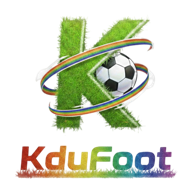
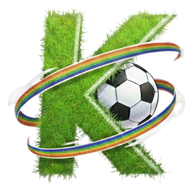
feat: Add initial client-side assets, SEO configuration, sitemap, and OpenAPI specification.

diff --git a/apps/client/index.html b/apps/client/index.html
@@ -10,24 +10,24 @@
   <meta name="msapplication-TileColor" content="#ffffff">
   <meta name="theme-color" content="#ffffff">
   <meta name="viewport" content="width=device-width, initial-scale=1.0" />
-  <title>KduFoot — Matchs Amicaux & Tournois de Football</title>
+  <title>KduFoot — Organisez et Trouvez des Matchs Amicaux & Tournois</title>
 
   <meta name="description"
-    content="KduFoot : Trouvez des matchs amicaux et des tournois autour de chez vous pour organiser vos rencontres de football facilement." />
+    content="Kdufoot : Trouvez ou publiez vos annonces de matchs amicaux et tournois de football autour de chez vous. Organisez vos rencontres et rejoignez la communauté en quelques clics !" />
   <link rel="canonical" href="https://kdufoot.com/" />
 
   <meta property="og:type" content="website" />
   <meta property="og:url" content="https://kdufoot.com/" />
-  <meta property="og:title" content="KduFoot — Matchs Amicaux & Tournois de Football" />
+  <meta property="og:title" content="KduFoot — Organisez et Trouvez des Matchs Amicaux & Tournois" />
   <meta property="og:description"
-    content="Trouvez des matchs amicaux et des tournois de football proches de chez vous avec KduFoot." />
+    content="Kdufoot : Trouvez ou publiez vos annonces de matchs amicaux et tournois de football autour de chez vous. Organisez vos rencontres et rejoignez la communauté en quelques clics !" />
   <meta property="og:image" content="https://kdufoot.com/logo.png" />
 
   <meta property="twitter:card" content="summary_large_image" />
   <meta property="twitter:url" content="https://kdufoot.com/" />
-  <meta property="twitter:title" content="KduFoot — Matchs Amicaux & Tournois de Football" />
+  <meta property="twitter:title" content="KduFoot — Organisez et Trouvez des Matchs Amicaux & Tournois" />
   <meta property="twitter:description"
-    content="Trouvez des matchs amicaux et des tournois de football proches de chez vous avec KduFoot." />
+    content="Kdufoot : Trouvez ou publiez vos annonces de matchs amicaux et tournois de football autour de chez vous. Organisez vos rencontres et rejoignez la communauté en quelques clics !" />
   <meta property="twitter:image" content="https://kdufoot.com/logo.png" />
 
   <script type="application/ld+json">

diff --git a/crop.py b/crop.py
@@ -1,0 +1,81 @@
+import sys
+import os
+from PIL import Image
+
+def process_logo(base_path):
+    src_logo = os.path.join(base_path, 'logo.png')
+    if not os.path.exists(src_logo):
+        print(f"Error: {src_logo} not found")
+        return
+    
+    print("Opening logo...")
+    img = Image.open(src_logo).convert('RGBA')
+    
+    # We found earlier:
+    # X ranges of content: [(176, 848)]  -> Width: 673
+    # Y ranges of top part: [(68, 727)] -> Height: 660
+    # Let's crop a secure square around center (512, 398) with radius 360
+    # Box: (512 - 360, 398 - 360, 512 + 360, 398 + 360) = (152, 38, 872, 758)
+    
+    # Actually, we can just crop dynamically to the top graphic
+    # Let's recalculate and find bounding box of the top cluster
+    # (Y from 0 to 750)
+    top_img = img.crop((0, 0, img.width, 750))
+    bbox = top_img.getbbox()
+    
+    if not bbox:
+        print("Could not find top cluster!")
+        return
+        
+    print(f"Top cluster bounding box: {bbox}")
+    
+    # Create square box
+    center_x = (bbox[0] + bbox[2]) // 2
+    center_y = (bbox[1] + bbox[3]) // 2
+    width = bbox[2] - bbox[0]
+    height = bbox[3] - bbox[1]
+    
+    side = max(width, height)
+    # Add a little padding, say 10%
+    r = int((side / 2) * 1.05)
+    
+    crop_box = (
+        max(0, center_x - r),
+        max(0, center_y - r),
+        min(img.width, center_x + r),
+        min(img.height, center_y + r)
+    )
+    
+    # Crop to make it square
+    # First, make an empty square image transparent
+    sq_size = r * 2
+    square_img = Image.new('RGBA', (sq_size, sq_size), (0, 0, 0, 0))
+    
+    # Paste cropped area
+    cropped_region = img.crop(crop_box)
+    
+    # Center paste in square
+    paste_x = (sq_size - cropped_region.width) // 2
+    paste_y = (sq_size - cropped_region.height) // 2
+    square_img.paste(cropped_region, (paste_x, paste_y))
+    
+    print(f"Cropped to square size: {square_img.size}")
+    
+    # Now generate and overwrite files
+    files = {
+        'logo.png': 1024,
+        'android-chrome-512x512.png': 512,
+        'android-chrome-192x192.png': 192,
+        'apple-touch-icon.png': 180,
+        'favicon-32x32.png': 32,
+        'favicon-16x16.png': 16
+    }
+    
+    for filename, size in files.items():
+        out_path = os.path.join(base_path, filename)
+        if os.path.exists(out_path):
+            resized = square_img.resize((size, size), Image.Resampling.LANCZOS)
+            resized.save(out_path, format='PNG')
+            print(f"Overwrote {out_path} ({size}x{size})")
+
+process_logo("apps/client/public")

diff --git a/inspect_logo.py b/inspect_logo.py
@@ -1,0 +1,49 @@
+import sys
+from PIL import Image
+
+def analyze_image(path):
+    print(f"Analyzing {path}...")
+    try:
+        img = Image.open(path).convert('RGBA')
+        width, height = img.size
+        print(f"Size: {width}x{height}")
+        
+        profile = []
+        for y in range(height):
+            alpha_sum = sum(img.getpixel((x, y))[3] for x in range(width))
+            profile.append((y, alpha_sum))
+        
+        ranges = []
+        in_content = False
+        start = 0
+        for y, alpha in profile:
+            if alpha > 0 and not in_content:
+                in_content = True
+                start = y
+            elif alpha == 0 and in_content:
+                in_content = False
+                ranges.append((start, y-1))
+        if in_content:
+            ranges.append((start, height-1))
+        
+        print("Y ranges of content:", ranges)
+        
+        # also find X ranges to see if the K is centered
+        x_profile = [sum(img.getpixel((x, y))[3] for y in range(height)) for x in range(width)]
+        x_ranges = []
+        in_content = False
+        start = 0
+        for x, alpha in enumerate(x_profile):
+            if alpha > 0 and not in_content:
+                in_content = True
+                start = x
+            elif alpha == 0 and in_content:
+                in_content = False
+                x_ranges.append((start, x-1))
+        if in_content:
+            x_ranges.append((start, width-1))
+        print("X ranges of content:", x_ranges)
+    except Exception as e:
+        print(f"Error analyzing {path}: {e}")
+
+analyze_image('apps/client/public/logo.png')
